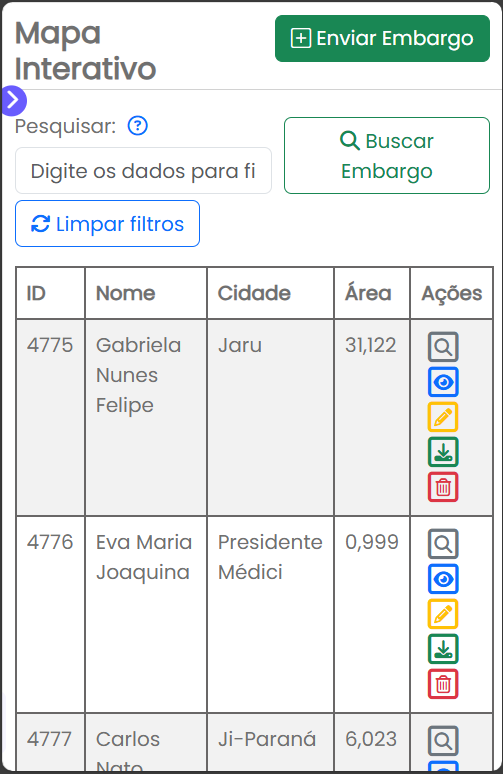
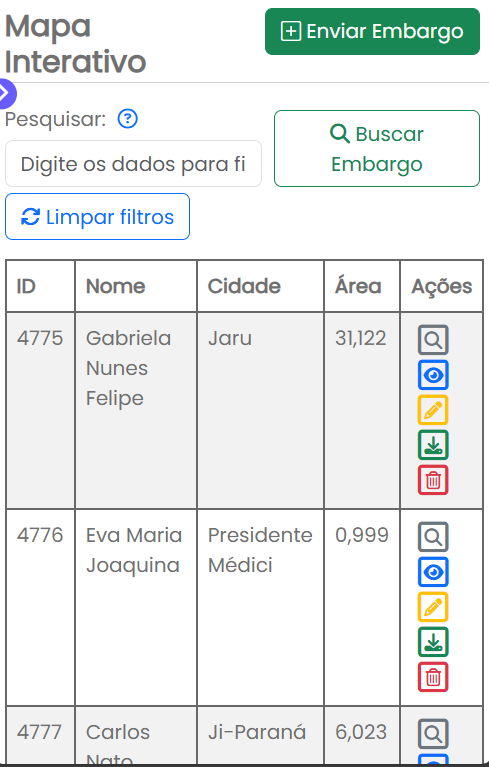
Ajuste view

Changed region(s): [[0.0, 0.0, 1.0, 1.0]]

diff --git a/public/css/index/index.css b/public/css/index/index.css
@@ -189,6 +189,7 @@ body.dark .imageMain::after {
     margin-top: 14px;
     display: flex;
     justify-content: center;
+    margin-left: 229px;
 }
 
 .manualBtn {
@@ -241,6 +242,7 @@ body.dark .imageMain::after {
     margin-top: 405px;
     display: flex;
     justify-content: center;
+    margin-left: 229px;
 }
 
 .navigationAuto div:not(:last-child) {
@@ -413,7 +415,7 @@ body.dark .imageMain::after {
 
     .manualNavigation {
         width: 250px;
-        margin-top: 13px;
+        margin-top: 5px;
     }
 
     .divTextProject1,
